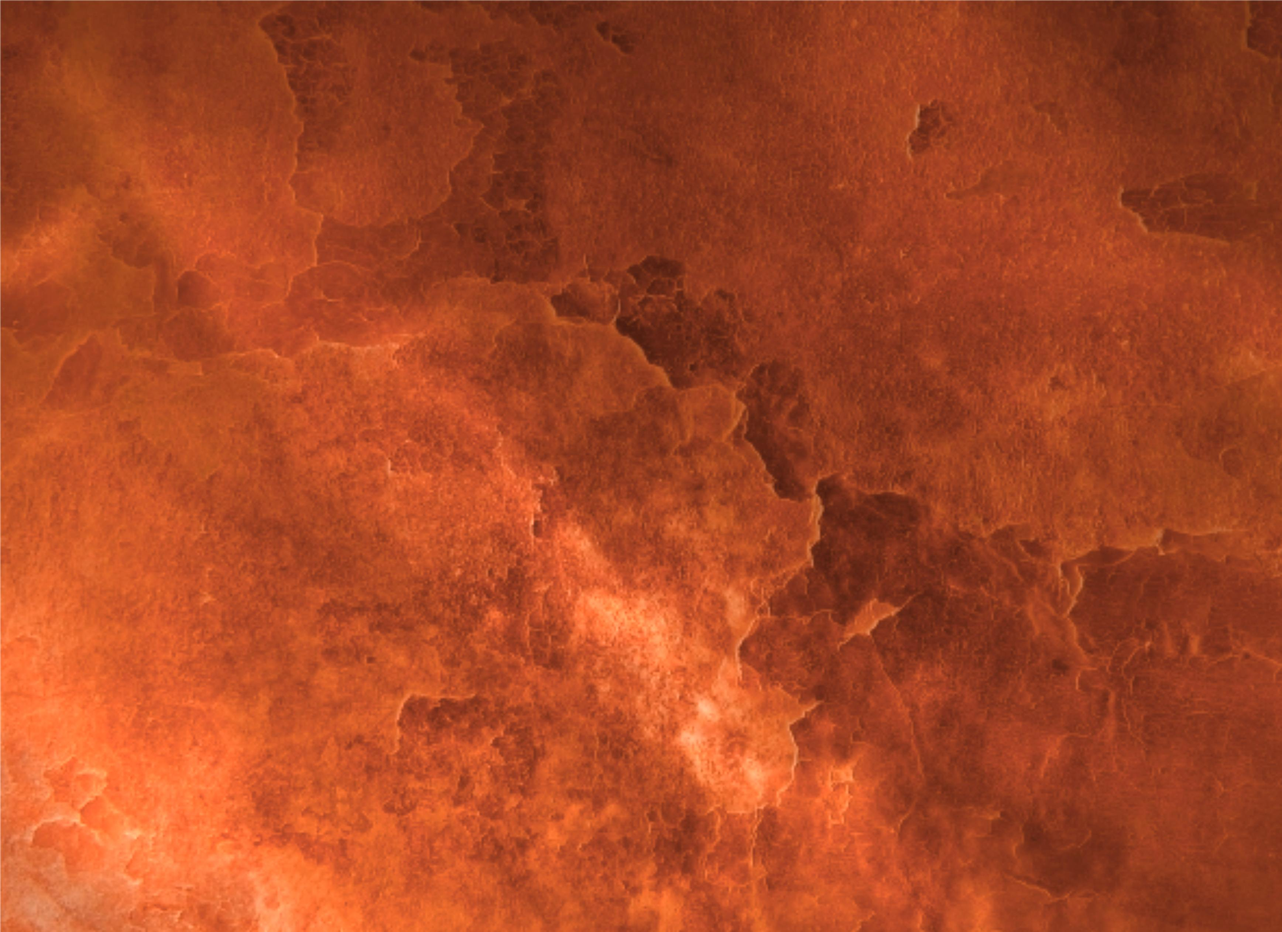
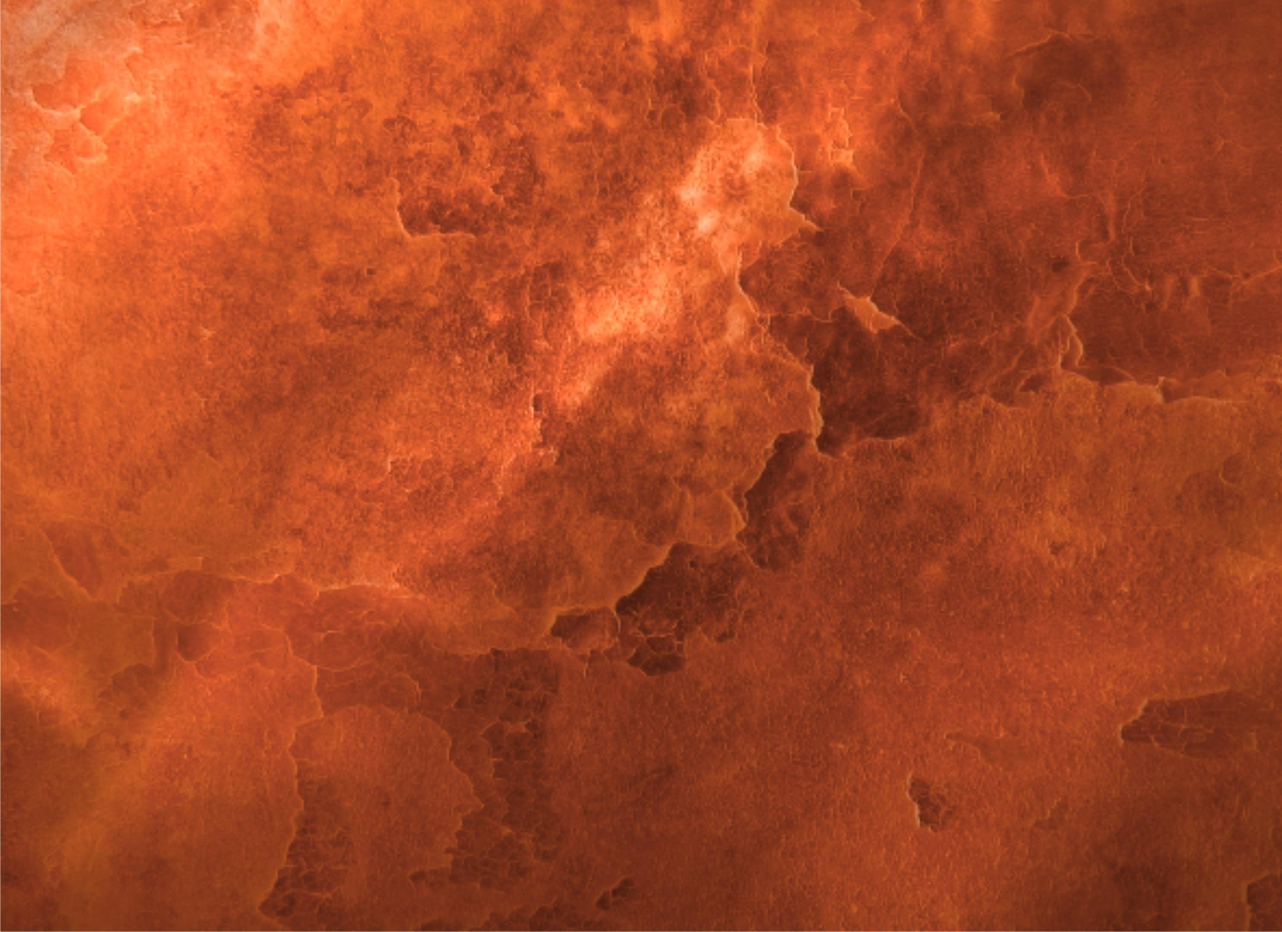
Tweaked navbar colours, flipped some BGs, changed title for home

diff --git a/css/style.css b/css/style.css
@@ -213,32 +213,6 @@ height:100%;
 }
 
 
-/* Set up colors of tiles */
-.nav-color1{
-  background-color:#2f333b; 
-}
-
-.nav-color2{
-  background-color:#b50d0c;
-}
-
-.nav-color3{
-  background-color:#dd5b00;
-}
-
-.nav-color4{
-  background-color:#fc9703;
-}
-
-.nav-color5{
-  background-color:#29a92b;
-}
-
-.nav-color6{
-  background-color:#0048cd;
-}
-
-
 /* Set up colors of tiles for Modi*/
 .nav-color1{
   background-color:#2f333b; 
@@ -257,7 +231,7 @@ height:100%;
 }
 
 .nav-color5{
-  background-color:#29a92b;
+  background-color:#299b2b;
 }
 
 .nav-color6{
@@ -291,27 +265,27 @@ height:100%;
 
 /* Hover-color of tiles */
 .nav-color1:hover a:hover{
- background-color:#3700A5;
+ background-color:#2f333b;
 }
 
 .nav-color2:hover a:hover{
- background-color:#DA0000;
+ background-color:#9a0b0a;
 }
 
 .nav-color3:hover a:hover{
- background-color:#ff6600;
+ background-color:#c04f00;
 }
 
 .nav-color4:hover a:hover{
- background-color:#E0C300;
+ background-color:#d8a800;
 }
 
 .nav-color5:hover a:hover{
- background-color:#00C400;
+ background-color:#238324;
 }
 
 .nav-color6:hover a:hover{
- background-color:#005ED5;
+ background-color:#003eb0;
 }
 
 /*Remove horizontal bootstrap grid padding */

diff --git a/index.html b/index.html
@@ -3,7 +3,7 @@
 <html>
    <!-- Import jquery and bootstrap -->
 	<title>
-		Home
+		Capital Cubing
 	</title>
    <head>
       <meta charset="utf-8">
